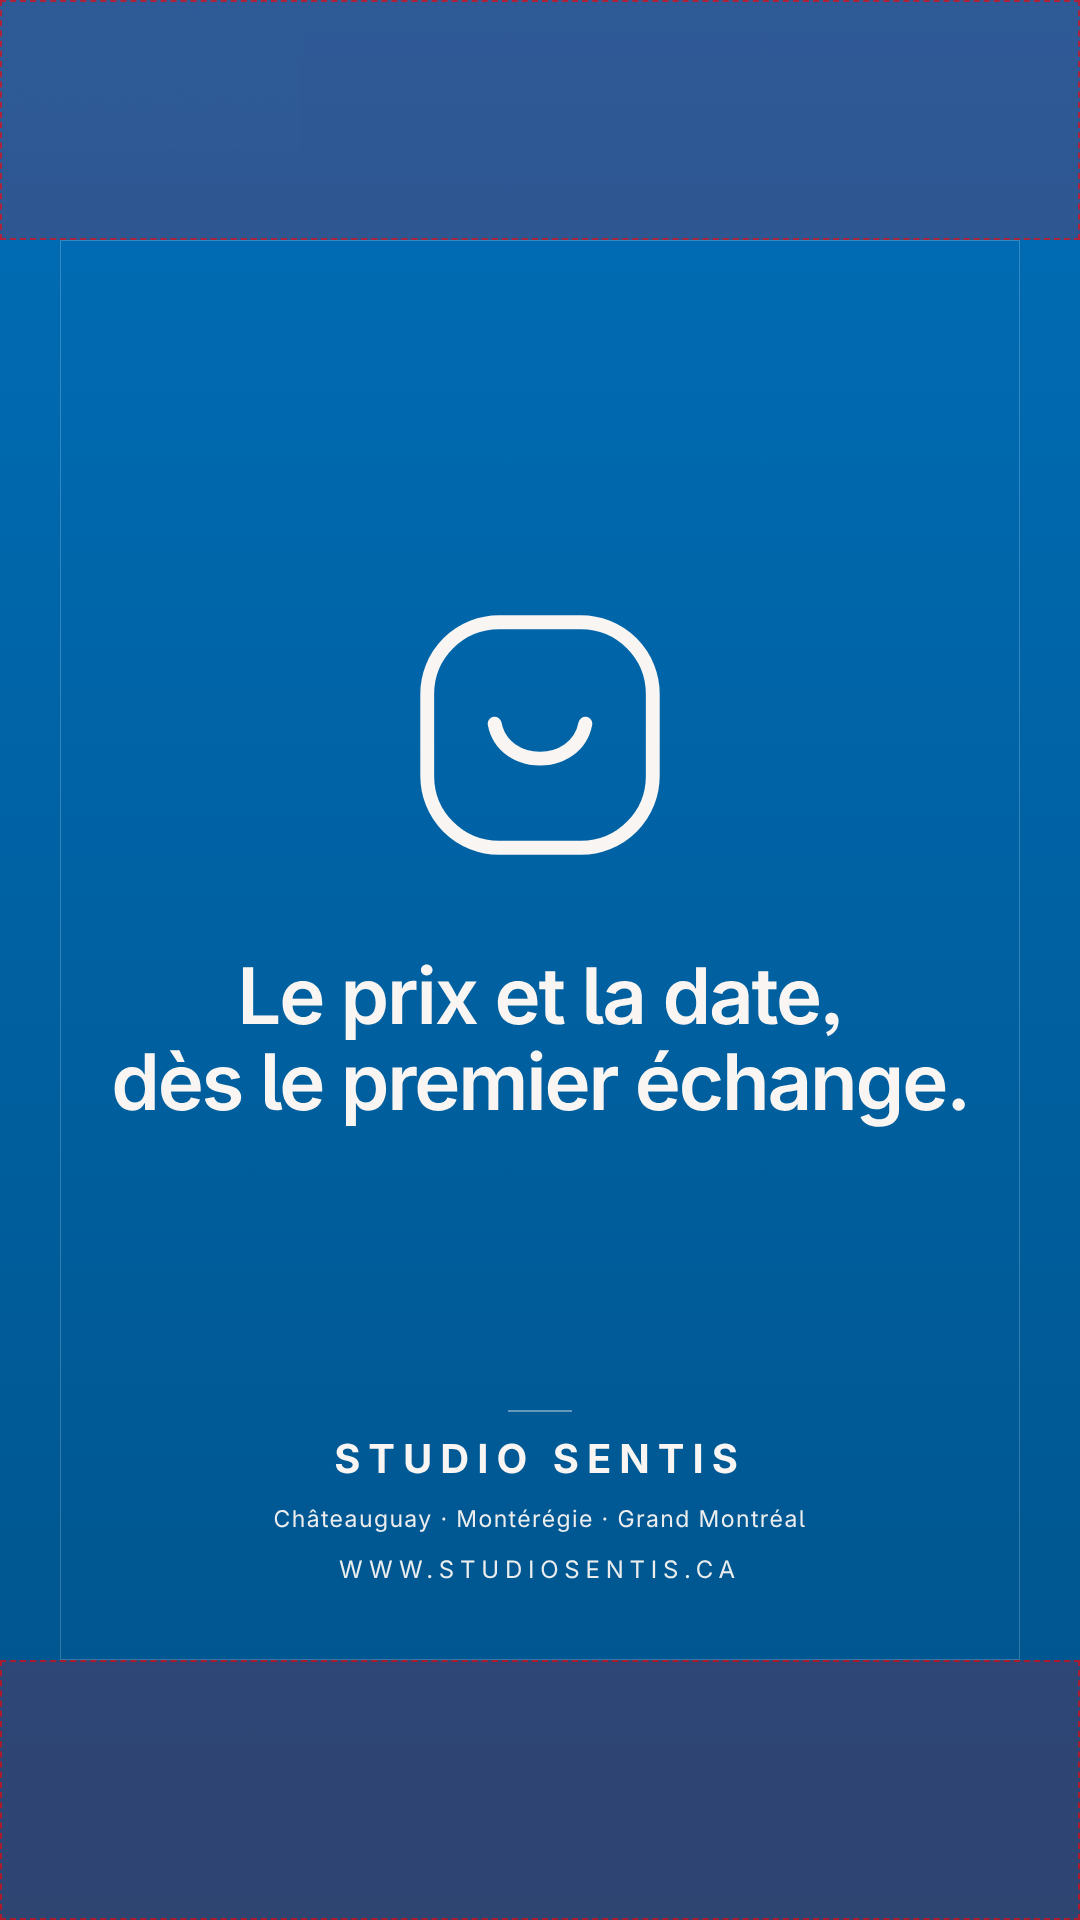
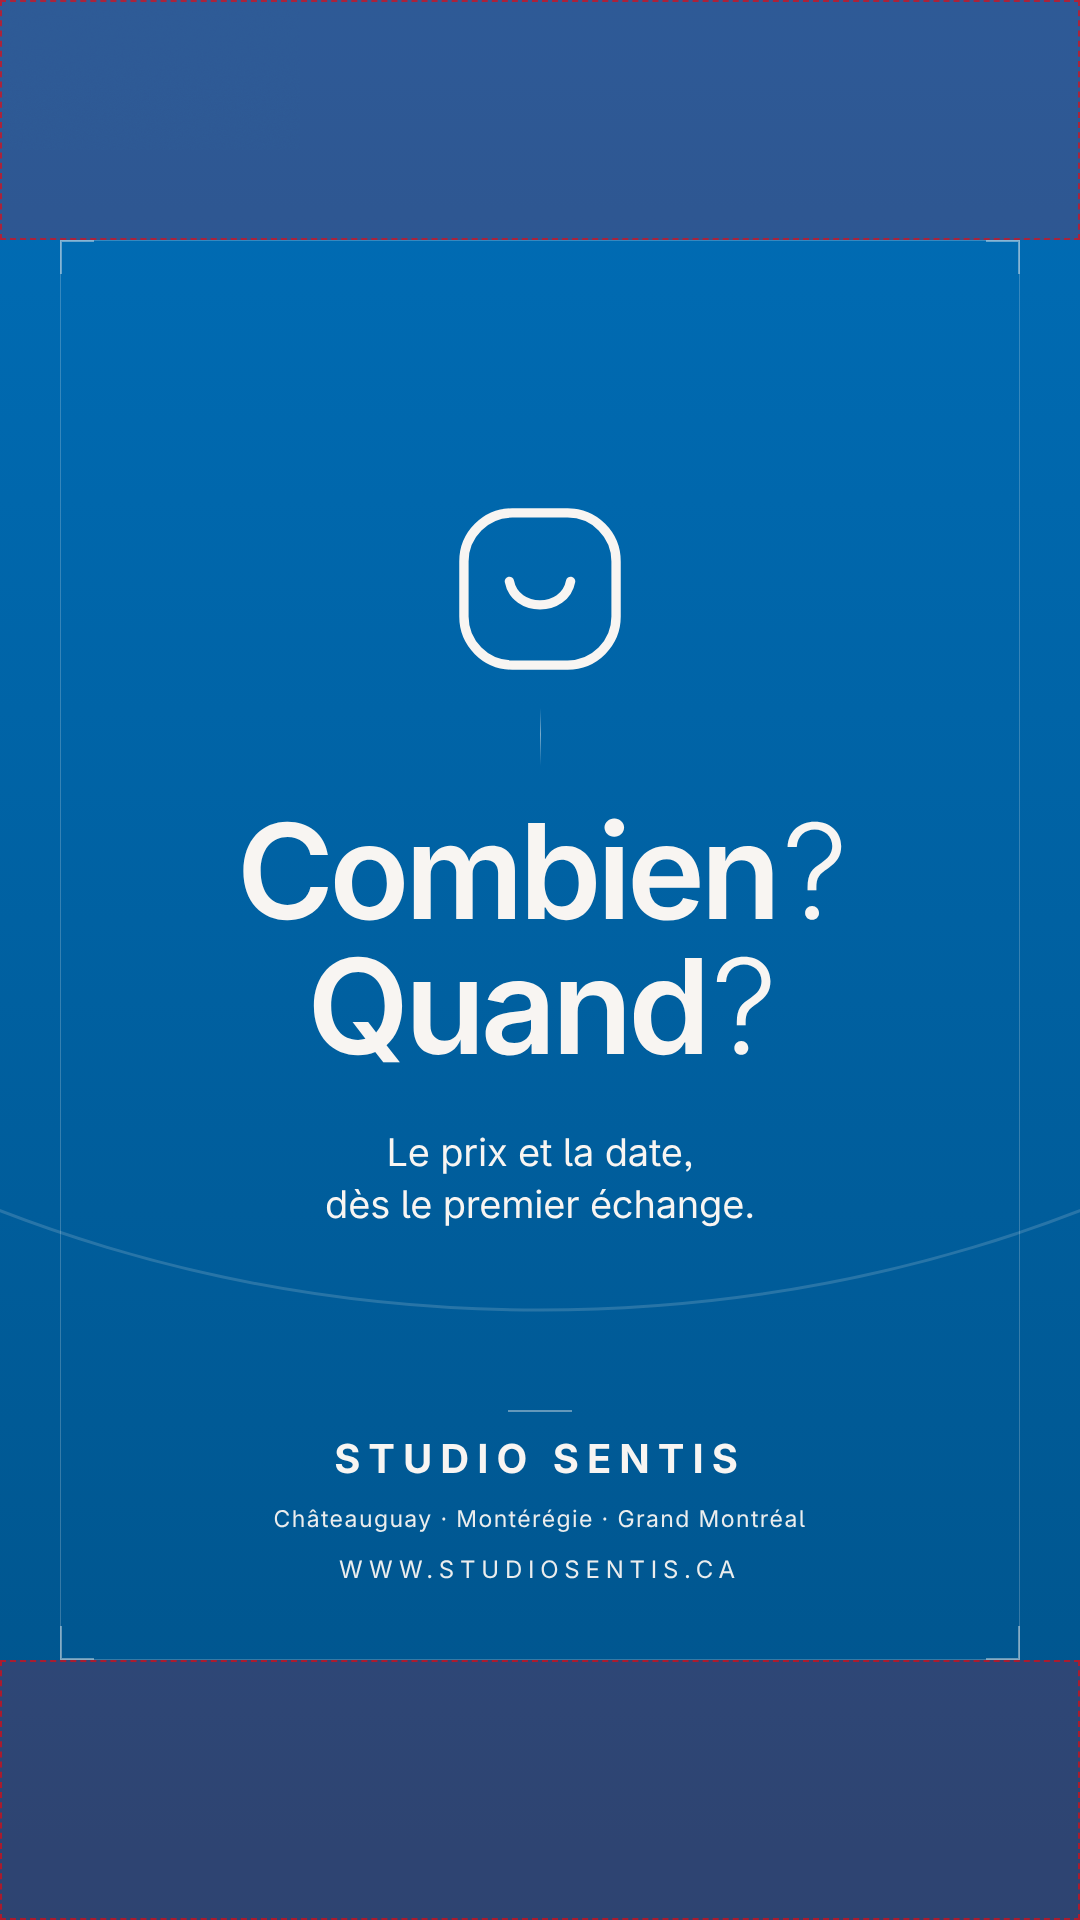
L'affiche pose la question avant d'y répondre
La première version affichait la promesse en grand : « Le prix et la date,
dès le premier échange. » C'est une réponse. Personne ne s'arrête sur la
réponse à une question qu'il ne s'est pas encore posée.

Les deux mots en grand sont donc maintenant les deux seules questions qu'un
client se pose avant de confier un mandat : Combien ? Quand ? La promesse
descend sous eux, à 38 px, et devient la résolution. C'est ce décalage qui
retient le regard, pas la taille du corps.

Trois interventions graphiques, toutes sous le seuil de l'attention et
toutes tirées de la géométrie existante :

- Un arc, le sourire du logo agrandi jusqu'à sortir du cadre, à 16 %. Ses
  proportions sont dérivées du tracé de logotype.tsx (largeur 14,4, poignées
  rentrées de 1,4 et descendues de 7,4) par une fonction, et non redessinées
  à l'oeil : si le logo change, l'arc suit. Il sépare le message de la
  signature comme une ligne d'horizon.
- Un fil vertical de 58 px entre le symbole et la question, fondu aux deux
  bouts. Il pose l'axe central et fait descendre le regard.
- Des équerres de 34 px aux quatre angles du cadre, à 42 % quand le filet
  qui les relie est à 22 %. Repère d'imprimeur : ça dit « calé ».

Le point d'interrogation est en graisse 300 quand le mot est en 600. Même
couleur, donc même contraste : la nuance est une respiration, pas un
affaiblissement. L'espace fine insécable qui le précède est la règle
française ; resserrée de 0,09 em, parce que la chasse d'Inter, juste dans un
[…]

Changed region(s): [[0.2139, 0.25, 0.8861, 0.6562], [0.0917, 0.5312, 0.2139, 0.5938], [0.2139, 0.4375, 0.2444, 0.4688]]

diff --git a/identite/4-reseaux/LISEZ-MOI.md b/identite/4-reseaux/LISEZ-MOI.md
@@ -31,12 +31,40 @@ plateformes, et le jour où une plateforme demandera plus grand.
 ## Refaire les affiches
 
 ```bash
-node scripts/identite/affiche-whatsapp.mjs     # les six fichiers
+node scripts/identite/affiche-whatsapp.mjs     # les neuf fichiers
 node scripts/identite/verifier-affiche.mjs     # le contrôle de contraste
 ```
 
-Le logo vient des fichiers de `1-logo/` : si le logo change, les statuts
-changent avec lui. Le slogan est celui du site.
+Le logo vient des fichiers de `1-logo/` : si le logo change, les affiches
+changent avec lui. L'arc est le sourire du logo agrandi — ses proportions sont
+dérivées du tracé de `logotype.tsx`, pas redessinées à l'oeil, donc il suit lui
+aussi. La réponse est le slogan du site.
+
+## Ce que dit l'affiche, et dans quel ordre
+
+L'affiche ne commence pas par la promesse. Elle commence par les deux seules
+questions qu'un client se pose avant de confier un mandat — **Combien ?** et
+**Quand ?** — et la promesse arrive dessous, plus petite, comme la réponse.
+
+C'est le décalage qui retient le regard, pas la taille du corps : personne ne
+s'arrête sur la réponse à une question qu'il ne s'est pas encore posée.
+
+Trois interventions restent volontairement sous le seuil de l'attention :
+
+- **l'arc**, le sourire du logo agrandi jusqu'à sortir du cadre, à 16 %. Il
+  sépare le message de la signature comme une ligne d'horizon. Son creux est
+  posé dans la bande vide entre la réponse et la signature ; plus haut, il
+  passait derrière la réponse et la barrait ;
+- **le fil vertical** de 58 px sous le symbole, fondu aux deux bouts. Il pose
+  l'axe central et fait descendre le regard ;
+- **les équerres** aux quatre angles, un peu plus franches que le filet qui
+  les relie. C'est le repère d'imprimeur : ça dit « calé ».
+
+Le point d'interrogation est tracé une graisse plus légère que le mot. Même
+couleur, donc même contraste : c'est une respiration, pas un affaiblissement.
+L'espace fine insécable qui le précède est la règle française ; elle a été
+resserrée de 0,09 em, parce que la chasse d'Inter, juste dans un paragraphe,
+est béante à 132 px.
 
 ## Ce qui a été mesuré
 
@@ -45,8 +73,9 @@ couleur derrière une ligne de texte n'est donc écrite nulle part — elle se
 **relève dans le PNG rendu**, pixel par pixel, à l'emplacement exact du texte.
 C'est ce que fait `verifier-affiche.mjs`, et il échoue sous 4,5:1.
 
-Pire couple des trois affiches : **6,16:1**. Le dégradé a même amélioré les
-contrastes, puisque le texte vit dans la partie basse, plus sombre.
+Pire couple des trois affiches : **5,98:1** (bleu · la question). L'arc passe
+derrière elle et l'éclaircit très légèrement — c'est précisément ce que le
+contrôle sert à voir, puisqu'il relève le fond arc compris.
 
 Le dégradé descend du clair vers le sombre et jamais l'inverse : éclaircir le
 haut du bleu faisait passer le blanc cassé de 4,93 à 3,81:1.
